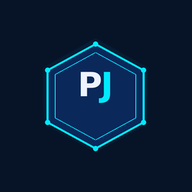
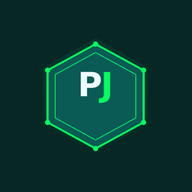
Add files via upload

Changed region(s): [[0.2188, 0.1875, 0.7812, 0.8125]]

diff --git a/index.html b/index.html
@@ -4,9 +4,10 @@
 <meta charset="UTF-8">
 <meta name="viewport" content="width=device-width, initial-scale=1, viewport-fit=cover, interactive-widget=resizes-content">
 <link rel="manifest" href="manifest.webmanifest">
-<meta name="theme-color" content="#2563eb">
+<meta name="theme-color" content="#059669">
 <link rel="icon" href="icon-192.png">
 <link rel="apple-touch-icon" href="icon-192.png">
+<meta name="mobile-web-app-capable" content="yes">
 <title>Controle Financeiro</title>
 <style>
 :root{--bg:#f4f6fa;--card:#fff;--tx:#1b2433;--mut:#6b7686;--bd:#e3e8ef;--pri:#2563eb;--ok:#16a34a;--bad:#dc2626;--warn:#d97706;box-sizing:border-box;padding-top:env(safe-area-inset-top,0px)}
@@ -83,6 +84,12 @@ dialog input{border-radius:12px;padding:12px}
  .fab{bottom:24px;right:24px}
  main{padding:24px}
 }
+.hero{padding:16px}.hero small{color:var(--mut);display:block}.hero b{display:block;font-size:clamp(28px,9vw,40px);line-height:1.15;margin:2px 0}
+.cts{font-size:.6em;font-weight:600;opacity:.65;display:inline!important;color:inherit!important}
+.step{display:flex;align-items:center;gap:10px;background:color-mix(in srgb,var(--warn) 16%,var(--card));border:1px solid color-mix(in srgb,var(--warn) 45%,transparent);border-radius:12px;padding:10px 12px;margin-bottom:12px;cursor:pointer}
+.step div{flex:1}.step b,.step small{display:block}.step small{color:var(--mut);font-size:13px}
+.dt{width:42px;flex:none;text-align:center;background:var(--bg);border-radius:8px;padding:4px 0}.dt b{display:block;font-size:16px}.dt small{font-size:10px;color:var(--mut)}
+.kpis{grid-template-columns:repeat(2,1fr)!important}
 .brand{display:flex;align-items:center;gap:8px}.brand img{height:34px;width:auto}
 </style>
 </head>
@@ -101,7 +108,22 @@ let S=load(),mon=new Date().toISOString().slice(0,7),view='painel',q='',ft='';
 function load(){try{const d=JSON.parse(localStorage.getItem(KEY));if(d&&d.tx)return d}catch(e){}return def()}
 function save(){try{localStorage.setItem(KEY,JSON.stringify(S))}catch(e){}}
 const $=s=>document.querySelector(s);
-const brl=v=>(+v||0).toLocaleString('pt-BR',{style:'currency',currency:'BRL'});
+let HID=false;try{HID=localStorage.getItem(KEY+'_hide')=='1'}catch(e){}
+function toggleHide(){HID=!HID;try{localStorage.setItem(KEY+'_hide',HID?'1':'0')}catch(e){}render()}
+const brl=v=>HID?'R$ ••••':(+v||0).toLocaleString('pt-BR',{style:'currency',currency:'BRL'});
+const big=v=>{if(HID)return 'R$ ••••';const s=(+v||0).toLocaleString('pt-BR',{style:'currency',currency:'BRL'}),i=s.lastIndexOf(',');return s.slice(0,i)+'<small class="cts">'+s.slice(i)+'</small>'};
+const MES=['JAN','FEV','MAR','ABR','MAI','JUN','JUL','AGO','SET','OUT','NOV','DEZ'];
+function prox(){
+ const t0=new Date();t0.setHours(0,0,0,0);const l0=new Date(t0);l0.setDate(l0.getDate()+30);
+ const iso=d=>d.getFullYear()+'-'+String(d.getMonth()+1).padStart(2,'0')+'-'+String(d.getDate()).padStart(2,'0');
+ const a=iso(t0),b=iso(l0),L=[],seen=new Set(),E=S.tx.filter(x=>x.t=='e');
+ E.filter(x=>x.d>a&&x.d<=b).forEach(x=>{L.push({d:x.d,n:x.n||x.c,v:x.v,s:'agendado'});seen.add((x.n||'').trim().toLowerCase()+'|'+x.d.slice(0,7))});
+ const g={};E.filter(x=>x.n&&x.d<=a).forEach(x=>{const k=x.n.trim().toLowerCase();(g[k]=g[k]||[]).push(x)});
+ Object.entries(g).forEach(([k,A])=>{if(new Set(A.map(x=>x.d.slice(0,7))).size<2)return;A.sort((p,q)=>p.d.localeCompare(q.d));
+  const l=A[A.length-1],[y,m,dd]=l.d.split('-').map(Number),dim=new Date(y,m+1,0).getDate(),nd=iso(new Date(y,m,Math.min(dd,dim)));
+  if(nd>a&&nd<=b&&!seen.has(k+'|'+nd.slice(0,7)))L.push({d:nd,n:l.n,v:l.v,s:'recorrente'})});
+ L.forEach(o=>o.k=Math.round((new Date(o.d+'T00:00:00')-t0)/864e5));
+ return L.sort((p,q)=>p.d.localeCompare(q.d)).slice(0,6)}
 const esc=s=>String(s).replace(/[&<>"']/g,c=>({'&':'&amp;','<':'&lt;','>':'&gt;','"':'&quot;',"'":'&#39;'}[c]));
 const fd=d=>d.split('-').reverse().join('/');
 const sum=a=>a.reduce((s,t)=>s+t.v,0);
@@ -114,34 +136,46 @@ function setView(v){view=v;render()}
 function render(){
  const N=[['painel','📊','Painel'],['lanc','🧾','Lançamentos'],['orc','🎯','Orçamentos'],['cfg','⚙','Ajustes']];
  $('#nav').innerHTML=N.map(n=>`<button class="${view==n[0]?'on':''}" onclick="setView('${n[0]}')"><span>${n[1]}</span>${n[2]}</button>`).join('');
[2 lines of base64/hex data omitted]
  $('#app').innerHTML=head+({painel:vPainel,lanc:vLanc,orc:vOrc,cfg:vCfg})[view]();
  if(view=='cfg')document.documentElement.dataset.theme&&0;
 }
 
 function vPainel(){
  const t=mtx(mon),r=sum(t.filter(x=>x.t=='r')),e=sum(t.filter(x=>x.t=='e')),s=r-e;
+ const[y,m]=mon.split('-').map(Number);
  const by={};t.filter(x=>x.t=='e').forEach(x=>by[x.c]=(by[x.c]||0)+x.v);
  const cats=Object.entries(by).sort((a,b)=>b[1]-a[1]);
+ const pm=(()=>{const d=new Date(y,m-2,1);return d.getFullYear()+'-'+String(d.getMonth()+1).padStart(2,'0')})();
+ const px=mtx(pm),pe=sum(px.filter(x=>x.t=='e')),ps=sum(px.filter(x=>x.t=='r'))-pe;
+ const dvv=e&&pe?Math.round((e-pe)/pe*100):null;
+ const ctr=`<text x="21" y="${dvv==null?22.2:20.6}" font-size="3.3" font-weight="700" text-anchor="middle" fill="var(--tx)">${brl(e)}</text>`+(dvv==null?'':`<text x="21" y="25.2" font-size="2.1" text-anchor="middle" fill="${dvv>0?'var(--bad)':'var(--ok)'}">${dvv>0?'▲':'▼'} ${Math.abs(dvv)}% vs. mês ant.</text>`);
  let off=0;
  const arcs=cats.map(([c,v])=>{const p=v/e*100;const s=`<circle r="15.9155" cx="21" cy="21" fill="none" stroke="${color(c)}" stroke-width="6" stroke-dasharray="${p} ${100-p}" stroke-dashoffset="${-off}" transform="rotate(-90 21 21)"/>`;off+=p;return s}).join('');
- const donut=e?`<div class="donut"><svg viewBox="0 0 42 42" width="150" height="150"><circle r="15.9155" cx="21" cy="21" fill="none" stroke="var(--bd)" stroke-width="6"/>${arcs}</svg><div class="legend" style="flex:1;min-width:150px">${cats.map(([c,v])=>`<div><span><i class="dot" style="background:${color(c)}"></i>${esc(c)}</span><b>${brl(v)} <small class="mut">${Math.round(v/e*100)}%</small></b></div>`).join('')}</div></div>`:'<div class="empty">Sem despesas neste mês</div>';
+ const donut=e?`<div class="donut"><svg viewBox="0 0 42 42" width="150" height="150"><circle r="15.9155" cx="21" cy="21" fill="none" stroke="var(--bd)" stroke-width="6"/>${arcs}<!--C--></svg><div class="legend" style="flex:1;min-width:150px">${cats.map(([c,v])=>`<div><span><i class="dot" style="background:${color(c)}"></i>${esc(c)}</span><b>${brl(v)} <small class="mut">${Math.round(v/e*100)}%</small></b></div>`).join('')}</div></div>`:'<div class="empty">Sem despesas neste mês</div>';
  // últimos 6 meses
- const ms=[];const[y,m]=mon.split('-').map(Number);
+ const ms=[];
  for(let i=5;i>=0;i--){const d=new Date(y,m-1-i,1);const k=d.getFullYear()+'-'+String(d.getMonth()+1).padStart(2,'0');const x=mtx(k);ms.push({k,l:d.toLocaleDateString('pt-BR',{month:'short'}).replace('.',''),r:sum(x.filter(a=>a.t=='r')),e:sum(x.filter(a=>a.t=='e'))})}
  const mx=Math.max(1,...ms.flatMap(a=>[a.r,a.e]));
  const bars=ms.map((a,i)=>{const x=i*50+8,hr=a.r/mx*100,he=a.e/mx*100;return `<rect x="${x}" y="${110-hr}" width="16" height="${hr}" rx="3" fill="var(--ok)"/><rect x="${x+18}" y="${110-he}" width="16" height="${he}" rx="3" fill="var(--bad)"/><text x="${x+17}" y="128" font-size="10" text-anchor="middle" fill="var(--mut)">${a.l}</text>`}).join('');
  const last=[...t].sort((a,b)=>b.d.localeCompare(a.d)).slice(0,5);
- const pm=(()=>{const d=new Date(y,m-2,1);return d.getFullYear()+'-'+String(d.getMonth()+1).padStart(2,'0')})();
- const pe=sum(mtx(pm).filter(x=>x.t=='e')),ins=[];
+ const ins=[];
  if(e&&pe){const dv=Math.round((e-pe)/pe*100);ins.push(`Você gastou <b>${Math.abs(dv)}% ${dv>=0?'a mais':'a menos'}</b> que no mês anterior.`)}
  if(cats[0])ins.push(`Maior gasto: <b>${esc(cats[0][0])}</b> (${brl(cats[0][1])}).`);
  if(r&&e)ins.push(`Você comprometeu <b>${Math.round(e/r*100)}%</b> da renda.`);
  const rc={};S.tx.filter(x=>x.t=='e'&&x.n).forEach(x=>{const k=x.n.trim().toLowerCase();(rc[k]=rc[k]||{n:x.n,ms:new Set(),v:0}).ms.add(x.d.slice(0,7));rc[k].v=x.v});
  const rec=Object.values(rc).filter(o=>o.ms.size>=2&&o.ms.has(mon)).slice(0,5);
  const insH=(ins.length||rec.length)?`<div class="card"><h2>💡 Resumo do mês</h2>${ins.map(i=>`<p style="margin:4px 0">${i}</p>`).join('')}${rec.length?`<p class="mut" style="margin:10px 0 4px">🔁 Parecem recorrentes: ${rec.map(o=>`${esc(o.n)} (${brl(o.v)})`).join(', ')}</p>`:''}</div>`:'';
- return `<div class="kpis"><div class="kpi"><small>Receitas</small><b class="ok">${brl(r)}</b></div><div class="kpi"><small>Despesas</small><b class="bad">${brl(e)}</b></div><div class="kpi"><small>Saldo</small><b class="${s>=0?'ok':'bad'}">${brl(s)}</b></div></div>
- <div style="height:12px"></div>${insH}<div class="grid"><div class="card"><h2>Despesas por categoria</h2>${donut}</div>
+ const PX=prox();
+ const ov=Object.entries(S.budgets||{}).map(([c,l])=>[c,+l||0,by[c]||0]).filter(a=>a[1]>0&&a[2]>=a[1]*.8).sort((a,b)=>b[2]/b[1]-a[2]/a[1])[0];
+ let nx=null;
+ if(ov)nx=[ov[2]>=ov[1]?`Orçamento de ${esc(ov[0])} estourou em ${brl(ov[2]-ov[1])}`:`${esc(ov[0])} já usou ${Math.round(ov[2]/ov[1]*100)}% do limite`,'orc'];
+ else if(PX[0]&&PX[0].k<=3)nx=[`${esc(PX[0].n)} ${PX[0].k<1?'vence hoje':PX[0].k==1?'vence amanhã':'vence em '+PX[0].k+' dias'} (${brl(PX[0].v)})`,'lanc'];
+ const stepH=nx?`<div class="step" onclick="setView('${nx[1]}')"><span>🔔</span><div><b>Próximo passo</b><small>${nx[0]}</small></div><span class="mut">›</span></div>`:'';
+ const pxH=PX.length?`<div class="card"><h2>📅 Próximos 30 dias <small class="mut">compromissos já conhecidos</small></h2>${PX.map(o=>`<div class="tx"><div class="dt"><b>${o.d.slice(8)}</b><small>${MES[+o.d.slice(5,7)-1]}</small></div><div class="i"><b>${esc(o.n)}</b><small class="mut">${o.s}</small></div><span class="v bad">-${brl(o.v)}</span></div>`).join('')}</div>`:'';
+ return `${stepH}<div class="card hero"><small>Saldo do mês</small><b class="${s>=0?'ok':'bad'}">${big(s)}</b><small>${pe||ps?'Mês anterior: '+brl(ps):'Sem dados do mês anterior'}</small></div>
+ <div class="kpis"><div class="kpi"><small>↙ Receitas</small><b class="ok">${big(r)}</b></div><div class="kpi"><small>↗ Despesas</small><b class="bad">${big(e)}</b></div></div>
+ <div style="height:12px"></div>${insH}${pxH}<div class="grid"><div class="card"><h2>Despesas por categoria</h2>${donut.replace('<!--C-->',ctr)}</div>
  <div class="card"><h2>Últimos 6 meses <small class="mut">(<span class="ok">receitas</span> / <span class="bad">despesas</span>)</small></h2><svg viewBox="0 0 300 135" width="100%">${bars}</svg></div></div>
  <div class="card"><h2>Últimos lançamentos</h2>${last.length?last.map(txRow).join(''):'<div class="empty">Nenhum lançamento</div>'}</div>`;
 }

diff --git a/sw.js b/sw.js
@@ -1,4 +1,4 @@
-const C='financas-v2',F=['./','index.html','manifest.webmanifest','icon-192.png','icon-512.png'];
+const C='financas-v1',F=['./','index.html','manifest.webmanifest','icon-192.png','icon-512.png'];
 self.addEventListener('install',e=>{e.waitUntil(caches.open(C).then(c=>c.addAll(F)));self.skipWaiting()});
 self.addEventListener('activate',e=>{e.waitUntil(caches.keys().then(k=>Promise.all(k.filter(x=>x!=C).map(x=>caches.delete(x)))).then(()=>clients.claim()))});
 self.addEventListener('fetch',e=>{if(e.request.method!=='GET'||new URL(e.request.url).origin!==location.origin)return;e.respondWith(caches.match(e.request).then(r=>r||fetch(e.request).then(n=>{const c=n.clone();caches.open(C).then(x=>x.put(e.request,c));return n}).catch(()=>caches.match('index.html'))))});
